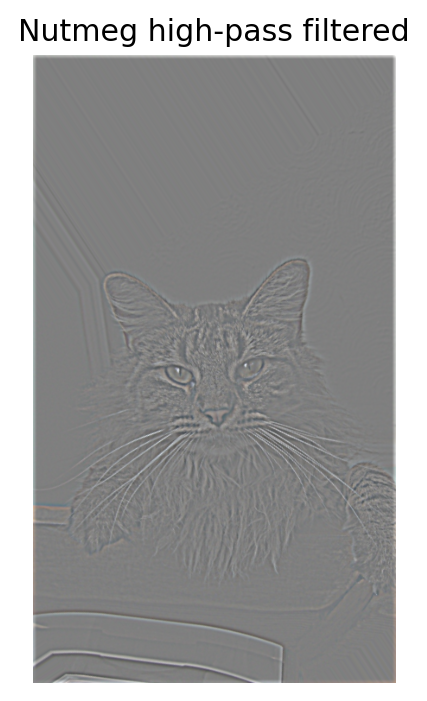
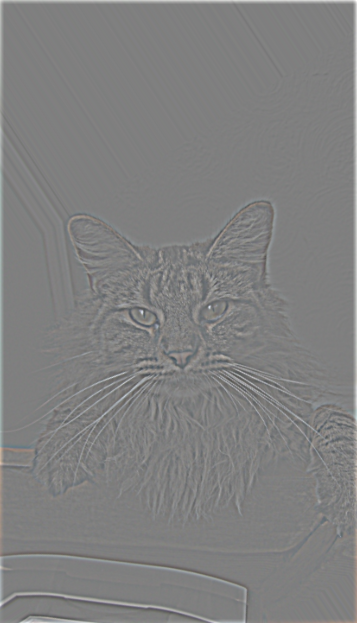
Improve hybrid examples and presentation

diff --git a/projects/project2/index.html b/projects/project2/index.html
@@ -9,6 +9,22 @@
     <link rel="preconnect" href="https://fonts.gstatic.com" crossorigin>
     <link href="https://fonts.googleapis.com/css2?family=Inter:wght@400;500;600;700;800&display=swap" rel="stylesheet">
     <link rel="stylesheet" href="../../styles.css?v=project2-framework-1">
+    <style>
+      #part-2 .final-hybrid-figure {
+        grid-column: 1 / -1;
+        max-width: 720px;
+      }
+
+      #part-2 .final-hybrid-figure img {
+        height: 500px;
+      }
+
+      @media (max-width: 700px) {
+        #part-2 .final-hybrid-figure img {
+          height: 360px;
+        }
+      }
+    </style>
   </head>
   <body>
     <header class="site-header">
@@ -216,6 +232,7 @@ hybrid = np.clip(low_frequency + high_frequency, 0, 1)</code></pre>
           <figure><img src="nutmeg_derek_hybrid.png" alt="Derek and Nutmeg hybrid image"><figcaption>Derek + Nutmeg hybrid</figcaption></figure>
         </div>
         <h4>Connor + Snow</h4>
+        <p>Everyone has told me I looked like Snow, so I thought it would be fun to try this hybrid, and it turned out really well.</p>
         <div class="source-plate-grid">
           <figure><img src="connor_smiling.png" alt="Original Connor portrait"><figcaption>Connor high-frequency source</figcaption></figure>
           <figure><img src="young_snow.jpeg" alt="Original young Snow portrait"><figcaption>Snow low-frequency source</figcaption></figure>
@@ -228,6 +245,7 @@ hybrid = np.clip(low_frequency + high_frequency, 0, 1)</code></pre>
           <figure><img src="tiger_lion_hybrid.png" alt="Lion and tiger hybrid image"><figcaption>Lion + Tiger hybrid</figcaption></figure>
         </div>
         <h4>Lionel Messi + Lion: full process</h4>
+        <p>I thought combining Lionel Messi and a lion would be a fun play on words, so I used this pair for the full analysis.</p>
         <div class="source-plate-grid">
           <figure><img src="messi.png" alt="Original Lionel Messi portrait"><figcaption>Original Messi</figcaption></figure>
           <figure><img src="lion.png" alt="Original lion image"><figcaption>Original lion</figcaption></figure>
@@ -235,7 +253,7 @@ hybrid = np.clip(low_frequency + high_frequency, 0, 1)</code></pre>
           <figure><img src="lion_aligned.png" alt="Aligned lion image"><figcaption>Aligned lion</figcaption></figure>
           <figure><img src="messi_high_pass.png" alt="High-pass filtered Lionel Messi image"><figcaption>Messi high-pass</figcaption></figure>
           <figure><img src="lion_low_pass.png" alt="Low-pass filtered lion image"><figcaption>Lion low-pass</figcaption></figure>
-          <figure><img src="messi_lion_hybrid.png" alt="Final Lionel Messi and lion hybrid image"><figcaption>Final hybrid</figcaption></figure>
+          <figure class="final-hybrid-figure"><img src="messi_lion_hybrid.png" alt="Final Lionel Messi and lion hybrid image"><figcaption>Final hybrid</figcaption></figure>
           <figure><img src="messi_lion_cutoff_experiment.png" alt="Lionel Messi and lion hybrid cutoff experiment"><figcaption>Cutoff experiment</figcaption></figure>
         </div>
         <h4>Fourier analysis</h4>

diff --git a/projects/project2/hybrid_image_starter.py b/projects/project2/hybrid_image_starter.py
@@ -151,7 +151,6 @@ def save_image(image, title, filename, signed=False):
         ax.imshow(display_image, cmap="gray", vmin=0, vmax=1)
     else:
         ax.imshow(display_image)
-    ax.set_title(title)
     ax.axis("off")
     fig.tight_layout()
     fig.savefig(PROJECT_DIR / filename, dpi=180, bbox_inches="tight")
@@ -170,7 +169,6 @@ def fourier_magnitude(image):
 def save_fourier(image, title, filename):
     fig, ax = plt.subplots(figsize=(5, 4))
     ax.imshow(fourier_magnitude(image), cmap="gray")
-    ax.set_title(title)
     ax.axis("off")
     fig.tight_layout()
     fig.savefig(PROJECT_DIR / filename, dpi=180, bbox_inches="tight")
@@ -213,10 +211,11 @@ derek_points = ((0.38, 0.33), (0.60, 0.33))
 nutmeg_derek = hybrid_image(
     nutmeg,
     derek,
-    sigma_high=6,
-    sigma_low=8,
+    sigma_high=3,
+    sigma_low=12,
     high_points=nutmeg_points,
     low_points=derek_points,
+    alpha=1.5,
     label="Nutmeg and Derek",
 )
 nutmeg_derek_hybrid, nutmeg_aligned, derek_aligned, nutmeg_high, derek_low = nutmeg_derek
